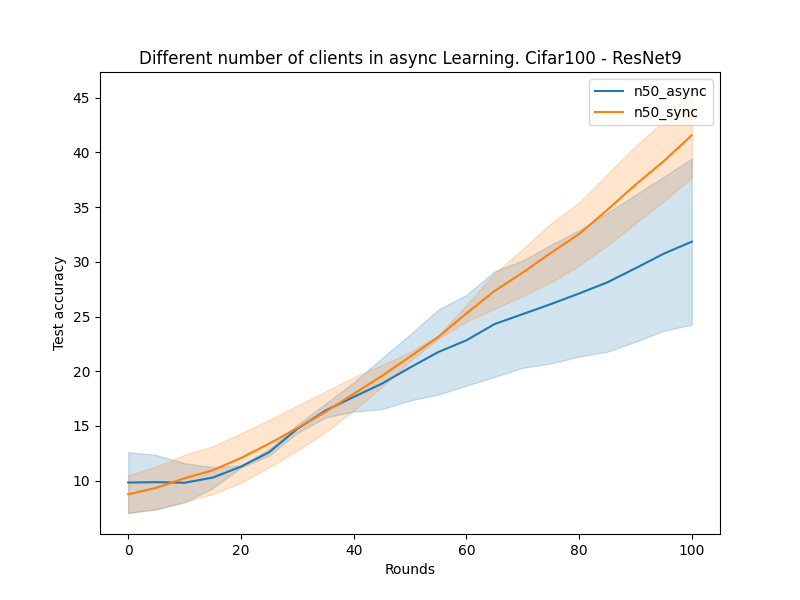
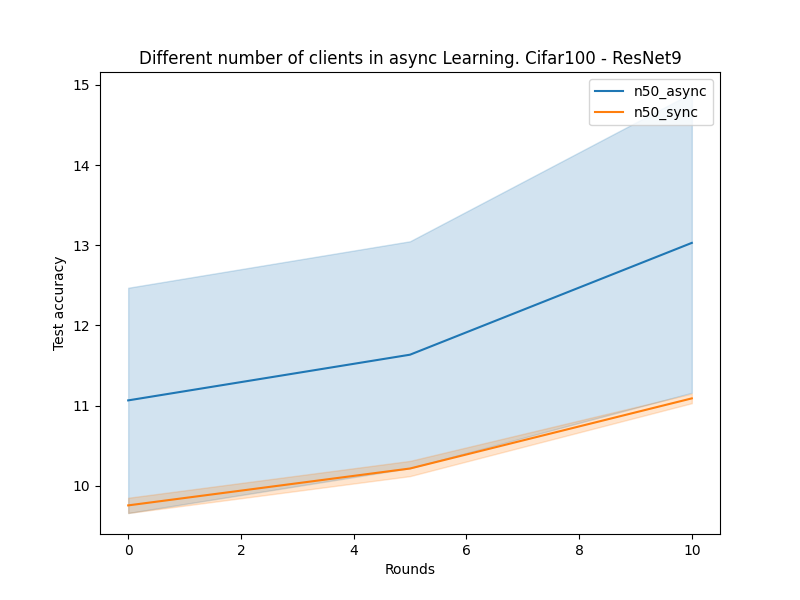
Deprecate functions

diff --git a/asyncfl/scheduler.py b/asyncfl/scheduler.py
@@ -278,9 +278,11 @@ class Scheduler:
 
         # Plot data
 
-
     def run_with_tasks_old(self):
-
+        """
+        Deprecated function
+        """
+        raise DeprecationWarning(f"Function '{__name__}' is deprecated")
         # Create task list
         tasks = []
         task: Task = Task(self.get_clients()[0], Client.get_pid)
@@ -338,6 +340,10 @@ class Scheduler:
 
     @staticmethod 
     def run_util_sync(cfg):
+        """
+        Deprecated function
+        """
+        raise DeprecationWarning(f"Function '{__name__}' is deprecated")
         sched = Scheduler(**cfg)
         num_rounds = cfg['num_rounds']
         # worker_id = int(current_process()._identity[0])
@@ -348,6 +354,10 @@ class Scheduler:
 
     @staticmethod
     def run_sync(list_of_configs, pool_size=5):
+        """
+        Deprecated function
+        """
+        raise DeprecationWarning(f"Function '{__name__}' is deprecated")
         return [Scheduler.run_util_sync(cfg) for cfg in tqdm(list_of_configs, total=len(list_of_configs), position=0, leave=None, desc='Total')]
         # return [Scheduler.run_util_sync(cfg) for cfg in list_of_configs]
 

diff --git a/exp0a_start.py b/exp0a_start.py
@@ -3,6 +3,8 @@ import asyncfl as AFL
 import seaborn as sns
 import pandas as pd
 import matplotlib.pyplot as plt
+# Turn interactive plotting off
+plt.ioff()
 import numpy as np
 from pathlib import Path
 import argparse
@@ -27,7 +29,7 @@ if __name__ == '__main__':
         dataset = 'mnist'
         f = 0  # number of byzantine clients
         # num_rounds = 50*10
-        num_rounds = 100
+        num_rounds = 10
         idx = 1
         repetitions = 2
         limit = 10
@@ -116,11 +118,11 @@ if __name__ == '__main__':
 
     graph_file = graphs_path / f'{exp_name}.png'
     # Visualize data
-    plt.figure(figsize=(8, 6))
+    fig = plt.figure(figsize=(8, 6))
     g = sns.lineplot(data=server_df, x='round', y='accuracy', hue='name')
     plt.title('Different number of clients in async Learning. Cifar100 - ResNet9')
     plt.xlabel('Rounds')
     plt.ylabel('Test accuracy')
     g.legend_.set_title(None)
     plt.savefig(graph_file)
-    plt.show()
+    plt.close(fig)
